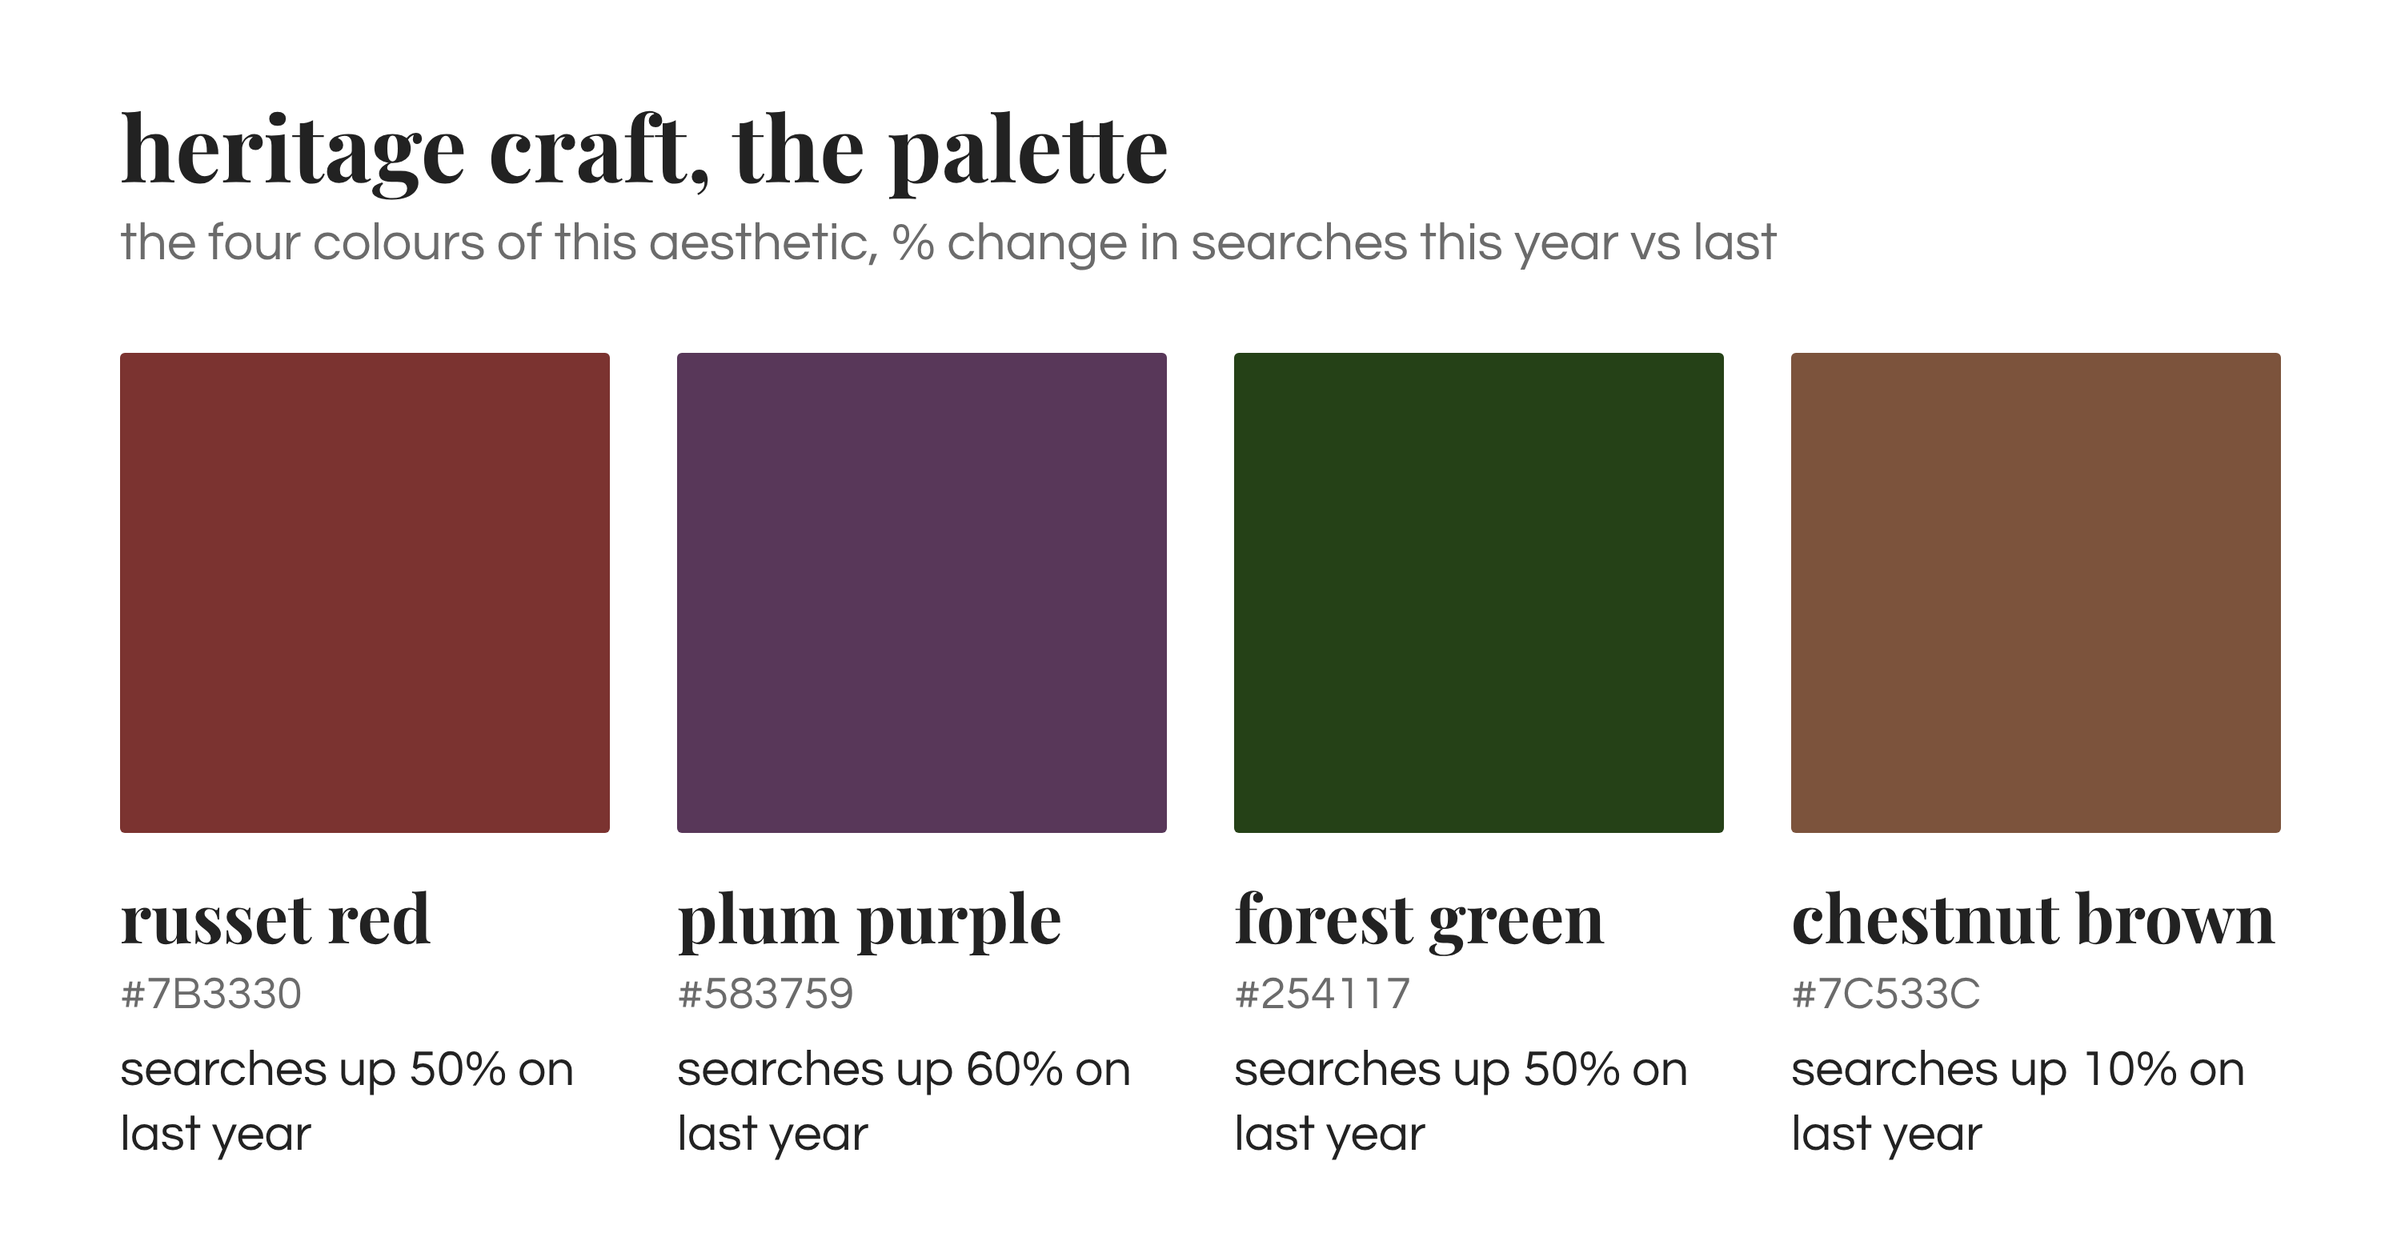
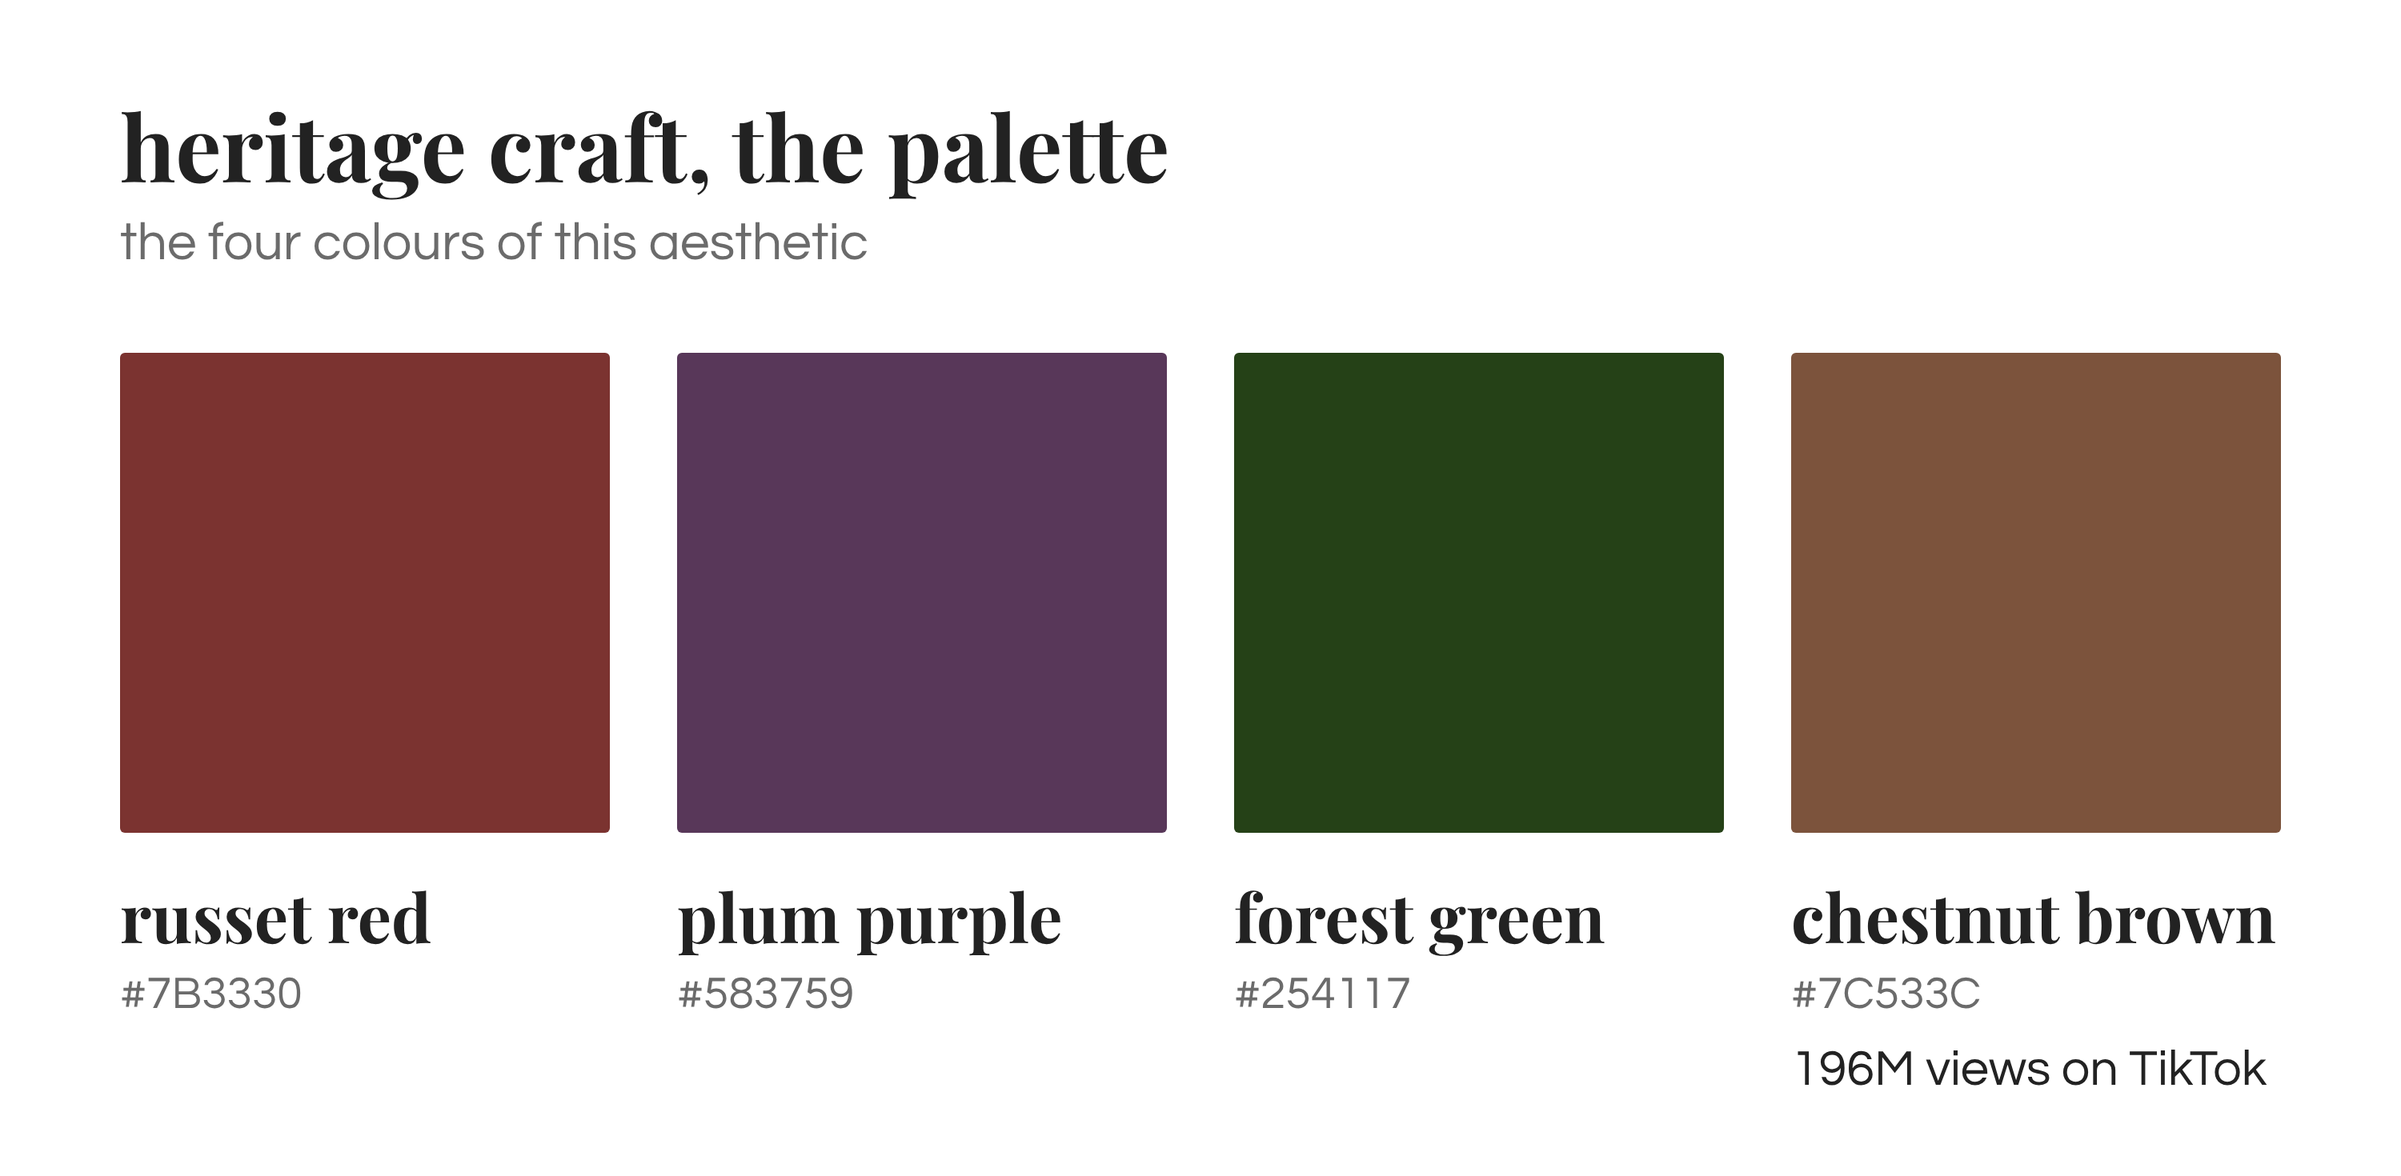
FW27 palette cards: swatches only, TikTok views where the forecast gives them
Claude-Session: https://claude.ai/code/session_01N7aeZaURyexD9YLQTk163X

diff --git a/drafts/fw27-forecast-charts/06-palette-heritage-craft.html b/drafts/fw27-forecast-charts/06-palette-heritage-craft.html
@@ -1,1 +1,1 @@
-<!doctype html><html><head><meta charset="utf-8"><link href="https://fonts.googleapis.com/css2?family=Playfair+Display:wght@700&family=Questrial&display=swap" rel="stylesheet"><style>body{margin:0;background:#fff}#card{width:1000px;background:#fff;box-sizing:border-box;padding:40px 50px 30px;font-family:'Century Gothic', 'Questrial', 'Avenir', sans-serif;color:#222222}h1{font-family:'Playfair Display', Georgia, serif;font-weight:700;font-size:38px;margin:0 0 8px;line-height:1.1}.sub{font-size:22px;color:#6B6B6B;margin:0 0 34px} .src{font-size:20px;margin-top:34px}.row{display:flex;gap:28px} .sw{flex:1} .sq{height:200px;border-radius:2px}.nm{font-family:'Playfair Display', Georgia, serif;font-weight:700;font-size:28px;margin:16px 0 4px} .hx{font-size:19px;color:#6B6B6B;margin:0 0 8px} .dp{font-size:21px;line-height:1.3}.look{flex:1;position:relative;border-radius:22px;overflow:hidden} .look img{width:100%;height:440px;object-fit:cover;object-position:top;display:block}.chip{position:absolute;left:14px;bottom:14px;background:#D6447A;color:#fff;font-size:20px;letter-spacing:1px;text-transform:uppercase;padding:8px 14px;border-radius:12px}</style></head><body><div id="card"><h1>heritage craft, the palette</h1><p class="sub">the four colours of this aesthetic, % change in searches this year vs last</p><div class="row"><div class="sw"><div class="sq" style="background:#7B3330"></div><div class="nm">russet red</div><div class="hx">#7B3330</div><div class="dp">searches up 50% on last year</div></div><div class="sw"><div class="sq" style="background:#583759"></div><div class="nm">plum purple</div><div class="hx">#583759</div><div class="dp">searches up 60% on last year</div></div><div class="sw"><div class="sq" style="background:#254117"></div><div class="nm">forest green</div><div class="hx">#254117</div><div class="dp">searches up 50% on last year</div></div><div class="sw"><div class="sq" style="background:#7C533C"></div><div class="nm">chestnut brown</div><div class="hx">#7C533C</div><div class="dp">searches up 10% on last year</div></div></div></div></body></html>
+<!doctype html><html><head><meta charset="utf-8"><link href="https://fonts.googleapis.com/css2?family=Playfair+Display:wght@700&family=Questrial&display=swap" rel="stylesheet"><style>body{margin:0;background:#fff}#card{width:1000px;background:#fff;box-sizing:border-box;padding:40px 50px 30px;font-family:'Century Gothic', 'Questrial', 'Avenir', sans-serif;color:#222222}h1{font-family:'Playfair Display', Georgia, serif;font-weight:700;font-size:38px;margin:0 0 8px;line-height:1.1}.sub{font-size:22px;color:#6B6B6B;margin:0 0 34px} .src{font-size:20px;margin-top:34px}.row{display:flex;gap:28px} .sw{flex:1} .sq{height:200px;border-radius:2px}.nm{font-family:'Playfair Display', Georgia, serif;font-weight:700;font-size:28px;margin:16px 0 4px} .hx{font-size:19px;color:#6B6B6B;margin:0 0 8px} .dp{font-size:21px;line-height:1.3}.look{flex:1;position:relative;border-radius:22px;overflow:hidden} .look img{width:100%;height:440px;object-fit:cover;object-position:top;display:block}.chip{position:absolute;left:14px;bottom:14px;background:#D6447A;color:#fff;font-size:20px;letter-spacing:1px;text-transform:uppercase;padding:8px 14px;border-radius:12px}</style></head><body><div id="card"><h1>heritage craft, the palette</h1><p class="sub">the four colours of this aesthetic</p><div class="row"><div class="sw"><div class="sq" style="background:#7B3330"></div><div class="nm">russet red</div><div class="hx">#7B3330</div><div class="dp"></div></div><div class="sw"><div class="sq" style="background:#583759"></div><div class="nm">plum purple</div><div class="hx">#583759</div><div class="dp"></div></div><div class="sw"><div class="sq" style="background:#254117"></div><div class="nm">forest green</div><div class="hx">#254117</div><div class="dp"></div></div><div class="sw"><div class="sq" style="background:#7C533C"></div><div class="nm">chestnut brown</div><div class="hx">#7C533C</div><div class="dp">196M views on TikTok</div></div></div></div></body></html>

diff --git a/drafts/fw27-forecast-charts/06-palette-veiled-performance.html b/drafts/fw27-forecast-charts/06-palette-veiled-performance.html
@@ -1,1 +1,1 @@
-<!doctype html><html><head><meta charset="utf-8"><link href="https://fonts.googleapis.com/css2?family=Playfair+Display:wght@700&family=Questrial&display=swap" rel="stylesheet"><style>body{margin:0;background:#fff}#card{width:1000px;background:#fff;box-sizing:border-box;padding:40px 50px 30px;font-family:'Century Gothic', 'Questrial', 'Avenir', sans-serif;color:#222222}h1{font-family:'Playfair Display', Georgia, serif;font-weight:700;font-size:38px;margin:0 0 8px;line-height:1.1}.sub{font-size:22px;color:#6B6B6B;margin:0 0 34px} .src{font-size:20px;margin-top:34px}.row{display:flex;gap:28px} .sw{flex:1} .sq{height:200px;border-radius:2px}.nm{font-family:'Playfair Display', Georgia, serif;font-weight:700;font-size:28px;margin:16px 0 4px} .hx{font-size:19px;color:#6B6B6B;margin:0 0 8px} .dp{font-size:21px;line-height:1.3}.look{flex:1;position:relative;border-radius:22px;overflow:hidden} .look img{width:100%;height:440px;object-fit:cover;object-position:top;display:block}.chip{position:absolute;left:14px;bottom:14px;background:#D6447A;color:#fff;font-size:20px;letter-spacing:1px;text-transform:uppercase;padding:8px 14px;border-radius:12px}</style></head><body><div id="card"><h1>veiled performance, the palette</h1><p class="sub">the four colours of this aesthetic, % change in searches this year vs last</p><div class="row"><div class="sw"><div class="sq" style="background:#DFAA4F"></div><div class="nm">marigold</div><div class="hx">#DFAA4F</div><div class="dp">searches up 30% on last year</div></div><div class="sw"><div class="sq" style="background:#7E8C53"></div><div class="nm">moss green</div><div class="hx">#7E8C53</div><div class="dp">searches up 60% on last year</div></div><div class="sw"><div class="sq" style="background:#838384"></div><div class="nm">dove grey</div><div class="hx">#838384</div><div class="dp">searches up 30% on last year</div></div><div class="sw"><div class="sq" style="background:#D38377"></div><div class="nm">terracotta clay</div><div class="hx">#D38377</div><div class="dp">searches up 10% on last year</div></div></div></div></body></html>
+<!doctype html><html><head><meta charset="utf-8"><link href="https://fonts.googleapis.com/css2?family=Playfair+Display:wght@700&family=Questrial&display=swap" rel="stylesheet"><style>body{margin:0;background:#fff}#card{width:1000px;background:#fff;box-sizing:border-box;padding:40px 50px 30px;font-family:'Century Gothic', 'Questrial', 'Avenir', sans-serif;color:#222222}h1{font-family:'Playfair Display', Georgia, serif;font-weight:700;font-size:38px;margin:0 0 8px;line-height:1.1}.sub{font-size:22px;color:#6B6B6B;margin:0 0 34px} .src{font-size:20px;margin-top:34px}.row{display:flex;gap:28px} .sw{flex:1} .sq{height:200px;border-radius:2px}.nm{font-family:'Playfair Display', Georgia, serif;font-weight:700;font-size:28px;margin:16px 0 4px} .hx{font-size:19px;color:#6B6B6B;margin:0 0 8px} .dp{font-size:21px;line-height:1.3}.look{flex:1;position:relative;border-radius:22px;overflow:hidden} .look img{width:100%;height:440px;object-fit:cover;object-position:top;display:block}.chip{position:absolute;left:14px;bottom:14px;background:#D6447A;color:#fff;font-size:20px;letter-spacing:1px;text-transform:uppercase;padding:8px 14px;border-radius:12px}</style></head><body><div id="card"><h1>veiled performance, the palette</h1><p class="sub">the four colours of this aesthetic</p><div class="row"><div class="sw"><div class="sq" style="background:#DFAA4F"></div><div class="nm">marigold</div><div class="hx">#DFAA4F</div><div class="dp"></div></div><div class="sw"><div class="sq" style="background:#7E8C53"></div><div class="nm">moss green</div><div class="hx">#7E8C53</div><div class="dp"></div></div><div class="sw"><div class="sq" style="background:#838384"></div><div class="nm">dove grey</div><div class="hx">#838384</div><div class="dp"></div></div><div class="sw"><div class="sq" style="background:#D38377"></div><div class="nm">terracotta clay</div><div class="hx">#D38377</div><div class="dp"></div></div></div></div></body></html>

diff --git a/drafts/fw27-forecast-charts/06-palette-sensory-riot.html b/drafts/fw27-forecast-charts/06-palette-sensory-riot.html
@@ -1,1 +1,1 @@
-<!doctype html><html><head><meta charset="utf-8"><link href="https://fonts.googleapis.com/css2?family=Playfair+Display:wght@700&family=Questrial&display=swap" rel="stylesheet"><style>body{margin:0;background:#fff}#card{width:1000px;background:#fff;box-sizing:border-box;padding:40px 50px 30px;font-family:'Century Gothic', 'Questrial', 'Avenir', sans-serif;color:#222222}h1{font-family:'Playfair Display', Georgia, serif;font-weight:700;font-size:38px;margin:0 0 8px;line-height:1.1}.sub{font-size:22px;color:#6B6B6B;margin:0 0 34px} .src{font-size:20px;margin-top:34px}.row{display:flex;gap:28px} .sw{flex:1} .sq{height:200px;border-radius:2px}.nm{font-family:'Playfair Display', Georgia, serif;font-weight:700;font-size:28px;margin:16px 0 4px} .hx{font-size:19px;color:#6B6B6B;margin:0 0 8px} .dp{font-size:21px;line-height:1.3}.look{flex:1;position:relative;border-radius:22px;overflow:hidden} .look img{width:100%;height:440px;object-fit:cover;object-position:top;display:block}.chip{position:absolute;left:14px;bottom:14px;background:#D6447A;color:#fff;font-size:20px;letter-spacing:1px;text-transform:uppercase;padding:8px 14px;border-radius:12px}</style></head><body><div id="card"><h1>sensory riot, the palette</h1><p class="sub">the four colours of this aesthetic, % change in searches this year vs last</p><div class="row"><div class="sw"><div class="sq" style="background:#C7D344"></div><div class="nm">chartreuse</div><div class="hx">#C7D344</div><div class="dp">searches up 10% on last year</div></div><div class="sw"><div class="sq" style="background:#FF278A"></div><div class="nm">fuchsia</div><div class="hx">#FF278A</div><div class="dp">searches up 20% on last year</div></div><div class="sw"><div class="sq" style="background:#927EC3"></div><div class="nm">lilac</div><div class="hx">#927EC3</div><div class="dp">searches up 10% on last year</div></div><div class="sw"><div class="sq" style="background:#4C80FD"></div><div class="nm">cobalt blue</div><div class="hx">#4C80FD</div><div class="dp">searches up 30% on last year</div></div></div></div></body></html>
+<!doctype html><html><head><meta charset="utf-8"><link href="https://fonts.googleapis.com/css2?family=Playfair+Display:wght@700&family=Questrial&display=swap" rel="stylesheet"><style>body{margin:0;background:#fff}#card{width:1000px;background:#fff;box-sizing:border-box;padding:40px 50px 30px;font-family:'Century Gothic', 'Questrial', 'Avenir', sans-serif;color:#222222}h1{font-family:'Playfair Display', Georgia, serif;font-weight:700;font-size:38px;margin:0 0 8px;line-height:1.1}.sub{font-size:22px;color:#6B6B6B;margin:0 0 34px} .src{font-size:20px;margin-top:34px}.row{display:flex;gap:28px} .sw{flex:1} .sq{height:200px;border-radius:2px}.nm{font-family:'Playfair Display', Georgia, serif;font-weight:700;font-size:28px;margin:16px 0 4px} .hx{font-size:19px;color:#6B6B6B;margin:0 0 8px} .dp{font-size:21px;line-height:1.3}.look{flex:1;position:relative;border-radius:22px;overflow:hidden} .look img{width:100%;height:440px;object-fit:cover;object-position:top;display:block}.chip{position:absolute;left:14px;bottom:14px;background:#D6447A;color:#fff;font-size:20px;letter-spacing:1px;text-transform:uppercase;padding:8px 14px;border-radius:12px}</style></head><body><div id="card"><h1>sensory riot, the palette</h1><p class="sub">the four colours of this aesthetic</p><div class="row"><div class="sw"><div class="sq" style="background:#C7D344"></div><div class="nm">chartreuse</div><div class="hx">#C7D344</div><div class="dp">149M views on TikTok</div></div><div class="sw"><div class="sq" style="background:#FF278A"></div><div class="nm">fuchsia</div><div class="hx">#FF278A</div><div class="dp"></div></div><div class="sw"><div class="sq" style="background:#927EC3"></div><div class="nm">lilac</div><div class="hx">#927EC3</div><div class="dp"></div></div><div class="sw"><div class="sq" style="background:#4C80FD"></div><div class="nm">cobalt blue</div><div class="hx">#4C80FD</div><div class="dp"></div></div></div></div></body></html>

diff --git a/drafts/fw27-forecast-charts/build_visuals.py b/drafts/fw27-forecast-charts/build_visuals.py
@@ -36,20 +36,20 @@ def donut_svg(items, size=810):
 
 PALETTES = {
  'heritage-craft': ('Heritage Craft', [
-   ('russet red', '#7B3330', 'searches up 50% on last year'),
-   ('plum purple', '#583759', 'searches up 60% on last year'),
-   ('forest green', '#254117', 'searches up 50% on last year'),
-   ('chestnut brown', '#7C533C', 'searches up 10% on last year')]),
+   ('russet red', '#7B3330', ''),
+   ('plum purple', '#583759', ''),
+   ('forest green', '#254117', ''),
+   ('chestnut brown', '#7C533C', '196M views on TikTok')]),
  'sensory-riot': ('Sensory Riot', [
-   ('chartreuse', '#C7D344', 'searches up 10% on last year'),
-   ('fuchsia', '#FF278A', 'searches up 20% on last year'),
-   ('lilac', '#927EC3', 'searches up 10% on last year'),
-   ('cobalt blue', '#4C80FD', 'searches up 30% on last year')]),
+   ('chartreuse', '#C7D344', '149M views on TikTok'),
+   ('fuchsia', '#FF278A', ''),
+   ('lilac', '#927EC3', ''),
+   ('cobalt blue', '#4C80FD', '')]),
  'veiled-performance': ('Veiled Performance', [
-   ('marigold', '#DFAA4F', 'searches up 30% on last year'),
-   ('moss green', '#7E8C53', 'searches up 60% on last year'),
-   ('dove grey', '#838384', 'searches up 30% on last year'),
-   ('terracotta clay', '#D38377', 'searches up 10% on last year')]),
+   ('marigold', '#DFAA4F', ''),
+   ('moss green', '#7E8C53', ''),
+   ('dove grey', '#838384', ''),
+   ('terracotta clay', '#D38377', '')]),
 }
 STRIPS = {
  'heritage-craft': ('Heritage Craft', [('runway-chanel.png', 'Chanel'), ('runway-ralph-lauren.png', 'Ralph Lauren'), ('runway-acne-studios.png', 'Acne Studios')]),
@@ -72,7 +72,7 @@ manifest = []
 for key, (name, cols) in PALETTES.items():
     sw = ''.join(f'<div class="sw"><div class="sq" style="background:{hx}"></div><div class="nm">{html.escape(n)}</div>'
                  f'<div class="hx">{hx}</div><div class="dp">{html.escape(dp)}</div></div>' for n, hx, dp in cols)
-    body = (f'<h1>{name.lower()}, the palette</h1><p class="sub">the four colours of this aesthetic, % change in searches this year vs last</p>'
+    body = (f'<h1>{name.lower()}, the palette</h1><p class="sub">the four colours of this aesthetic</p>'
             f'<div class="row">{sw}</div>')
     fn = f'06-palette-{key}'
     open(f'{OUT}/{fn}.html', 'w').write(page(body, 1000)); manifest.append(fn)
@@ -84,8 +84,8 @@ for key, (name, looks) in STRIPS.items():
     open(f'{OUT}/{fn}.html', 'w').write(page(body, 1000)); manifest.append(fn)
 
 ITEMS = {
- 'heritage-craft': ('Heritage Craft', [('item-mary-jane-pumps.png', 'Mary Jane pumps', '3M views on TikTok'), ('item-jacquard-jacket.png', 'Jacquard jacket', 'searches up 61% on last year'), ('item-paisley-scarf.png', 'Paisley scarf', 'searches up 64% on last year'), ('item-tailored-suiting.png', 'Tailored suiting', 'slim suits up 133% in market adoption')]),
- 'sensory-riot': ('Sensory Riot', [('item-daytime-boa.png', 'Daytime boa', 'fur scarf searches up 30% on last year'), ('item-fringe-skirt.png', 'Fringe skirt', 'searches up 71% on last year'), ('item-sculptural-wedges.png', 'Sculptural wedges', 'searches up 23% on last year'), ('item-embellished-jeans.png', 'Embellished jeans', 'up 23% in market adoption')]),
+ 'heritage-craft': ('Heritage Craft', [('item-mary-jane-pumps.png', 'Mary Jane pumps', '3M views on TikTok'), ('item-jacquard-jacket.png', 'Jacquard jacket', ''), ('item-paisley-scarf.png', 'Paisley scarf', ''), ('item-tailored-suiting.png', 'Tailored suiting', 'slim suits up 133% in market adoption')]),
+ 'sensory-riot': ('Sensory Riot', [('item-daytime-boa.png', 'Daytime boa', 'fur scarf searches up 30% on last year'), ('item-fringe-skirt.png', 'Fringe skirt', ''), ('item-sculptural-wedges.png', 'Sculptural wedges', ''), ('item-embellished-jeans.png', 'Embellished jeans', 'up 23% in market adoption')]),
  'veiled-performance': ('Veiled Performance', [('item-drawstring-pants.png', 'Drawstring pants', 'up 33% among key influencers'), ('item-nylon-bag.png', 'Nylon bag', 'up 28% in market adoption'), ('item-funnel-neck-jacket.png', 'Funnel neck jacket', 'up 888% among key influencers, base not stated'), ('item-rain-boots.png', 'Rain boots', 'up 87% among key influencers')]),
 }
 for key, (name, items) in ITEMS.items():
